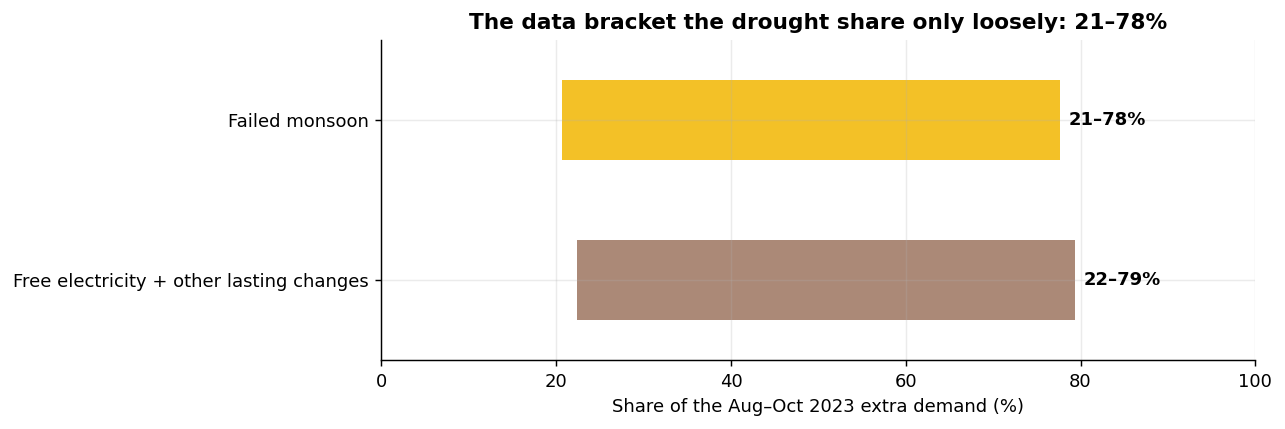
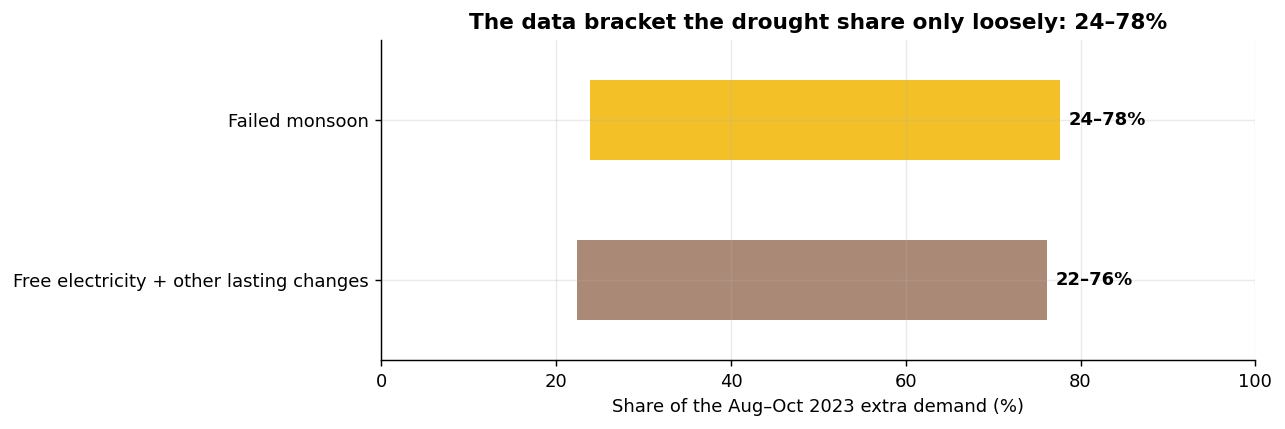
Put all shares on one baseline: drought share 24-78%
- 2024 lasting increase expressed as % of Model A expected demand (+16.4%) -> lower end 24%
- 21% (mixed baselines) and 28% (raw MW, mixed grid sizes) shown for reference only
- No-year check: report the rain-adjusted lower end as not computable instead of quoting the discarded method

diff --git a/reports/final_report.md b/reports/final_report.md
@@ -5,7 +5,7 @@
 
 ## ▲ The answer
 
-**Both causes were large, and the data cannot say which was larger. The failed monsoon explains roughly 21–78% of
+**Both causes were large, and the data cannot say which was larger. The failed monsoon explains roughly 24–78% of
 the 2023 surge; the rest came from a lasting increase that began in August 2023 (free electricity plus other growth),
 which the data cannot cleanly split.**
 
@@ -13,17 +13,18 @@ Of the ~1,860 MW of extra demand in August–October 2023 (demand above Model A'
 
 | Cause | Share | How it is bounded |
 |---|---|---|
-| 🌧 **Failed monsoon** (farm pumping during the drought) | **~21–78%** | two natural experiments: 2016 and 2024 |
-| 💡❓ **Free electricity + other lasting changes** | **~22–79%** | the remainder |
+| 🌧 **Failed monsoon** (farm pumping during the drought) | **~24–78%** | two natural experiments: 2016 and 2024 |
+| 💡❓ **Free electricity + other lasting changes** | **~22–76%** | the remainder |
 
 Two natural experiments bracket the answer, loosely:
 - **2016 — drought, no scheme:** demand rose +16.7% above expected (2023: +21.5%), so a drought alone can explain up
   to ~78% → **upper end**.
-- **2024 — scheme, wet year:** demand was +17.1% above the rain-aware model (Model B), and +17.8% in 2025. If that
-  lasting increase was already fully present in Aug–Oct 2023, the drought explains only ~21% → **lower end**.
+- **2024 — scheme, wet year:** after removing the effect of its extra rain, demand was still +16.4% above expected
+  (+17.3% in 2025). If that lasting increase was already fully present in Aug–Oct 2023, the drought explains only
+  ~24% → **lower end**.
 
 Two findings are robust across every model version tested: a drought alone (2016) produced a jump nearly as large
-as 2023's, and a **lasting +15–18% increase beyond what weather explains** switched on around August 2023 and never
+as 2023's, and a **lasting +14–17% increase beyond what weather explains** switched on around August 2023 and never
 went away. It includes a +10–13% rise in evening household hours that fits a free-electricity effect. After the 2016
 drought, by contrast, demand returned to normal.
 
@@ -103,15 +104,16 @@ absence of one.
 
 ### 4.3 Two natural experiments bracket the drought share
 
-| Year | Situation | Excess over Model A (ignores rain) | Excess over Model B (includes rain) |
+| Year | Situation | Excess over Model A (ignores rain) | Rain-adjusted excess (actual − Model B) |
 |---|---|---|---|
-| 2016 | drought, **no scheme** | **+16.7%** | +13.8% |
+| 2016 | drought, **no scheme** | **+16.7%** | +14.2% |
 | 2017 | normal rain, no scheme | −2.4% | −2.6% |
-| 2023 | drought + scheme | **+21.5%** | +15.6% |
-| 2024 | wet + scheme | +12.3% | **+17.1%** |
-| 2025 | wet + scheme | +14.4% | +17.8% |
+| 2023 | drought + scheme | **+21.5%** | +16.4% |
+| 2024 | wet + scheme | +12.3% | **+16.4%** |
+| 2025 | wet + scheme | +14.4% | +17.3% |
 
-The 2016 and 2017 figures come from a model trained on 2011–2015; the others from the main model (2015–2022).
+Both columns are percentages of the **same baseline**, Model A's expected demand for that year. The 2016 and 2017
+figures come from a model trained on 2011–2015; the others from the main model (2015–2022).
 
 **Were the two droughts comparable?** Farm-belt rainfall (7 towns, ERA5) against the 2011–2022 average:
 
@@ -128,9 +130,11 @@ In the Aug–Oct window used here the two shortfalls are almost identical. 2023 
 - **2016** shows what a drought *alone* does. During August–December, the 2016 and 2023 curves move almost
   together → the drought could explain up to **~78%** of 2023's excess.
 - **2024** shows what the lasting increase does *without* a drought. 2024 was wet, and a model that ignores rain
-  over-predicts in wet years, so the lasting increase must be measured against Model B: **+17.1%**. If it was already
-  fully present in Aug–Oct 2023, the drought explains only **(21.5 − 17.1) ÷ 21.5 ≈ 21%** (28% if measured in MW;
-  17% using 2025).
+  over-predicts in wet years, so the lasting increase must be measured rain-adjusted: actual minus Model B, which is
+  1,333 MW. To compare like with like, it is expressed as a share of the same baseline as the 2023 figure, Model A's
+  expected demand: **+16.4%**. If it was already fully present in Aug–Oct 2023, the drought explains only
+  **(21.5 − 16.4) ÷ 21.5 ≈ 24%**. (Mixing baselines, i.e. using 2024's +17.1% over Model B, gives 21%; using raw MW,
+  which mixes years with different grid sizes, gives 28%. Using 2025 instead of 2024 gives 20%.)
 
 **Correction:** an earlier version used 2024's excess over Model A (+12.3%) and got a lower end of 43%. That figure
 is the lasting increase *minus* the effect of 2024's extra rain, so it counted wet weather in 2024 as part of the
@@ -172,8 +176,8 @@ The findings were tested by trying to break them:
 | Placebo years (2015, 2021, 2022) | the method finds fake effects | ≤ ±4.5% excess over Model B (2023: +15.6%) | ✅ holds |
 | Drop 8 days where data sources disagree | results change | no change | ✅ holds |
 | 2016 drought, no scheme | a drought alone gives the same jump | it does (+16.7% vs +21.5%) | sets the **upper end** (~78%) |
-| 2024 scheme, wet year (rain-adjusted) | the lasting increase was already there in 2023 | +17.1% over Model B | sets the **lower end** (~21%) |
-| Re-fit without the `year` feature | the result depends on model setup | excesses over Model A fall ~6 points; brackets move to 57–88% (not rain-adjusted); lasting increase stays +15–18% | ⚠ **the split is model-dependent** |
+| 2024 scheme, wet year (rain-adjusted) | the lasting increase was already there in 2023 | +16.4% remains | sets the **lower end** (~24%) |
+| Re-fit without the `year` feature | the result depends on model setup | excesses over Model A fall ~6 points; upper end rises to 88%; the rain-adjusted lower end can't be computed reliably, because that Model B gets the rain effect backwards (it gives 6%); lasting increase stays +14–16% | ⚠ **the split is model-dependent** |
 
 **Why test `year`:** trees cannot extrapolate it, so every 2023+ prediction uses the "2022" setting. Model A does not
 see rain and may carry wet 2022's lower demand forward. Without `year`, Model A's backtest error improves (±6.1% vs
@@ -189,7 +193,8 @@ relies on government household figures.
 
 **Revision note:** the first version gave a single best estimate of ~75% for the drought. After a first external
 review, 2024 was added as a lower bound (43–78%). A third review found that the 2024 bound counted 2024's wet weather
-as drought; correcting it gives 21–78%, and the headline no longer claims the drought was the largest driver.
+as drought (21–78%), and the headline no longer claims the drought was the largest driver. A fourth review noted
+that 21% mixed two baselines; with every share on Model A's expected demand the range is 24–78%.
 
 ## 6. Limitations
 

diff --git a/README.md b/README.md
@@ -7,7 +7,7 @@ In August 2023, Karnataka's electricity demand jumped by ~50% compared with Augu
 
 ## The answer
 
-**Both were large, and the data cannot say which was larger.** The failed monsoon explains roughly **21–78%** of the
+**Both were large, and the data cannot say which was larger.** The failed monsoon explains roughly **24–78%** of the
 surge. The rest came from a lasting increase that began in August 2023 (free electricity plus other growth), which the
 data cannot cleanly split.
 
@@ -16,16 +16,17 @@ i.e. +21.5% above the "Model A" baseline):
 
 | Cause | Share |
 |---|---|
-| 🌧 Failed monsoon (farm pumping during the drought) | **~21–78%** |
-| 💡❓ Free electricity + other lasting changes | **~22–79%** |
+| 🌧 Failed monsoon (farm pumping during the drought) | **~24–78%** |
+| 💡❓ Free electricity + other lasting changes | **~22–76%** |
 
 Two natural experiments bracket the answer, loosely:
 - **2016** (drought, no scheme; Aug–Oct farm-belt rain −46% vs normal, almost the same as 2023's −45%): demand rose
   +16.7% above expected, against 2023's +21.5%. So a drought alone can explain up to **~78%**.
-- **2024** (scheme, wet year): demand was **+17.1% above the rain-aware model**, a lasting increase that was still
-  there in 2025. If it was already fully present in Aug–Oct 2023, the drought explains only **~21%**.
+- **2024** (scheme, wet year): after removing the effect of the extra rain, demand was still **+16.4% above
+  expected**, a lasting increase that was still there in 2025. If it was already fully present in Aug–Oct 2023, the
+  drought explains only **~24%**.
 
-**What is robust:** a drought alone (2016) produced a jump nearly as large as 2023's, *and* a lasting +15–18%
+**What is robust:** a drought alone (2016) produced a jump nearly as large as 2023's, *and* a lasting +14–17%
 increase beyond what weather explains started in August 2023 and has not gone away, in every model version tested.
 
 > **Which baseline?** "+50%" = vs the same months of 2022. "+21.5%" and "1,860 MW" = vs Model A (a model that ignores
@@ -100,8 +101,9 @@ has no backtest of its own. Each bound rests on one comparison year (2016, 2024)
 2023, the scheme cannot be separated from other lasting growth, and the hour-of-day mapping (households vs farms) is
 approximate. See the [report](reports/final_report.md#6-limitations).
 
-**Revision history:** the headline went from "~75% drought" to "43–78%" to "21–78%" after three external reviews.
-The last change fixed a mistake: the 2024 comparison had counted 2024's wet weather as part of the 2023 drought.
+**Revision history:** the headline went from "~75% drought" to "43–78%" to "24–78%" after four external reviews.
+The main fix: the 2024 comparison had counted 2024's wet weather as part of the 2023 drought. All shares are now
+percentages of the same baseline (Model A's expected demand).
 Details are in the analysis plan's change log.
 
 ## Data sources & credits

diff --git a/00_analysis_plan.md b/00_analysis_plan.md
@@ -45,6 +45,7 @@ the failed monsoon (farm pumping) or the Gruha Jyothi free-power scheme (househo
 ## Changes log
 | Date | Change | Reason |
 |---|---|---|
+| 2026-11-25 | After fourth external review: all shares now use one baseline, Model A's expected demand. The 2024 lasting increase (actual − Model B, 1,333 MW) is +16.4% of that baseline → lower end **24%** (was 21%, which mixed baselines; raw MW gives 28%, which mixes grid sizes). Drought share **~24–78%**. Without `year`, the rain-adjusted lower end is reported as not computable instead of quoting the discarded method. | Reviewer flagged that 21% subtracted percentages of different baselines. |
 | 2026-11-24 | After third external review: the 2024 lower bound is now **rain-adjusted** (2024 excess over Model B, +17.1%) → drought share **~21–78%** instead of 43–78%; headline changed from "largest driver" to "both large, cannot be ranked". Added a re-fit without `year` (brackets move; lasting increase does not), Model A's ±7.6% error, the 2016-model caveat (trained on shortage years, no backtest), pinned package versions and the data-source commit. | The old bound used 2024's excess over Model A, which in a wet year is the lasting increase minus a rain effect, so it counted 2024's wet weather as 2023 drought. |
 | 2026-11-24 | After second external review: no change to results. Added the **supplied-load vs true-demand** limitation (Oct 2023 farm rationing), a 2016 vs 2023 rainfall comparison, baseline labels on every headline number, and clarified that "July 2023" means 13–31 July. | Reviewer flagged these as gaps or possible inconsistencies. |
 | 2026-11-24 | After external review: add **2024** (scheme, normal rain) as a second natural experiment giving the **lower end** of the drought share, alongside 2016 (upper end). Report the drought share as a **range**, not a single best estimate; treat the ≤13% free-electricity figure as a reference only. | The 2024 persistence was set aside as "a separate question" although it changes the answer; headline was more confident than the evidence. |
